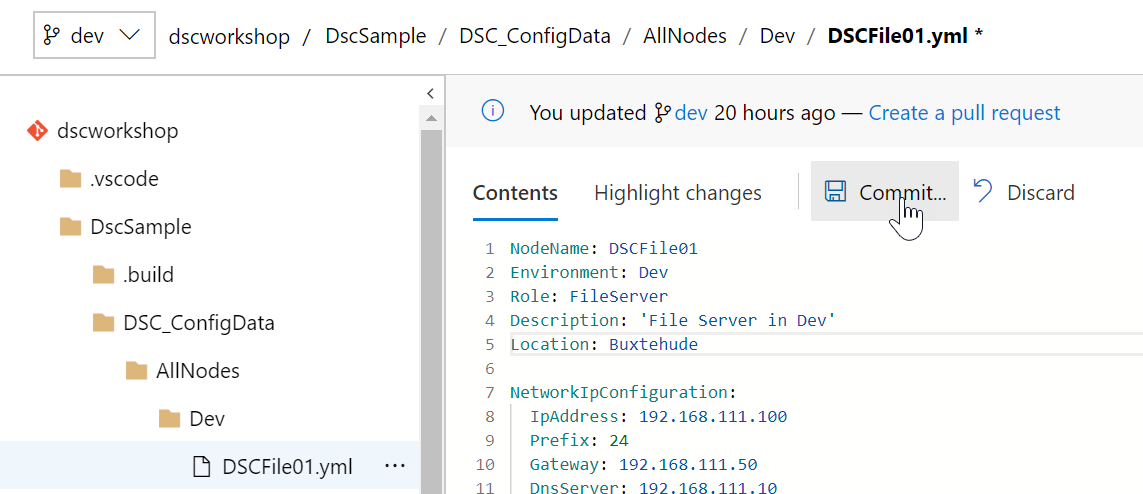
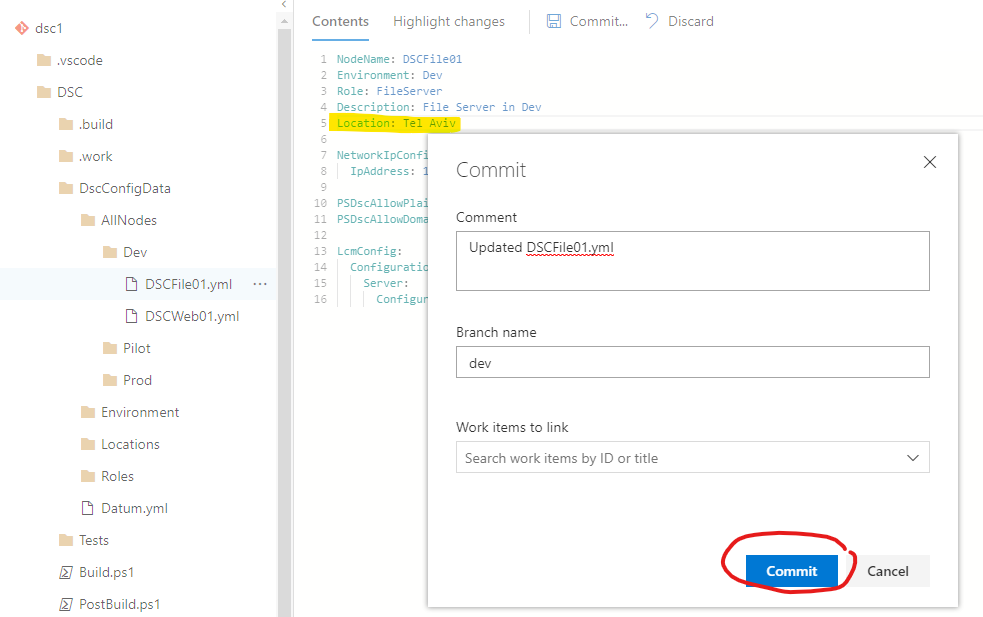
Updated Task 2 - Exercise 3

diff --git a/Exercises/Task2/Exercise3.md b/Exercises/Task2/Exercise3.md
@@ -12,24 +12,53 @@ This task assumes that you have access to dev.azure.com in order to create your 
 
 With your CI trigger set up from the previous exercise, every change that is committed to the repository invariably starts a new build process - including all test cases. Try it yourself!
 
-1. Either clone your repository locally or change a file online. For example, change to the dev branch and modify the file DSCFile01.yml:  
-    ```powershell
-    cd $home
-    git clone https://dev.azure.com/<YourAccountNameHere>/<YourProjectNameHere/dscworkshop
-    (Get-Content ./dscworkshop/DSC/DscConfigData/allnodes/dev/dscfile01.yml) -replace 'Location.*','Location: Buxtehude' |
-    Set-Content -Path ./dscworkshop/DSC/DscConfigData/allnodes/dev/dscfile01.yml
-    ```  
-    or if your prefer:  
-    ![UI file editing](./img/CommitChange.png)
-2. Stage and commit your changes locally. No build will be started yet, until you push your changes or, if using a forked repository, raise a pull request:
-    ```powershell
-    cd dscworkshop
-    git add .
-    git commit -m "DSCFile01 changed its location"
+1. There are two ways to edit a file. Please change the location of the node 'DSCFile01' using one of the following methods:
 
-    # Examine the output of git log to see your local commit in the history of all commits
-    git log
-    ```
-3. Push your committed changes by executing ```git push``` and switch back to Azure DevOps to witness the build being started. To do so, navigate to Pipelines -> Builds to see the build history.
+        ### The Azure DevOps web editor
+        
+        The quick one is just using the web editor in Azure DevOps. This is ok for a small test but this method does not scale and you can easily do mistakes.
+
+        ![UI file editing](./img/CommitChange.png)
+
+        If you have changed the location, press the 'Commit' button. By default, this change goes to the 'dev' branch.
+
+        ### Working with a local clone
+
+        If you really want to work with a source code repository, first thing is to create a local clone. You can do all you changes locally, review them and push them back to the repository.
+
+        In Visual Studio Code you can clone a repository by pressing ```F1``` and navigating to the command 'Git: Clone'. You need to provide the repository's URL and a local target folder.
+
+        You will get the URL from the Azure DevOps Repos -> Files page or you can start the clone project right from there.
+
+        ![Clone a repository](img/CloneRepository.png)
+
+        After the cloning is finished, you will be asked if 'you [would] like to open the cloned repository, or add it to the current workspace?'. Please choose 'Open'.
+
+        After you have altered the location in the 'DSCFile01.yml', save the file and see the change in the source control area:
+
+        >**Note: Please monitor the changes in the yellow marked are.**
+
+        ![Commit a local change](img/CommitLocalChange.png)
+
+        Enter a commit message and then click the 'Commit' button. You will be asked 'Would you like to automatically stage all your changes and commit them directly?', please click 'Yes'.
+
+        Now you have done a change in the local repository. This is indicated in the area at the left bottom that was marked yellow in the screenshot. You see 0 incoming and 1 outgoing change. If you click on that area, you will be asked "This action will push and pull commits to and from 'origin/dev'". Click yes, to push the changes to the Azure DevOps repo.
+
+        >**Info:** Alternatively you could have used the git command to do the same on the command line like this:
+
+        ```powershell
+        git add .
+        git commit -m "DSCFile01 changed its location"
+
+        # Examine the output of git log to see your local commit in the history of all commits
+        git log -n 1
+
+        #to see the actual change that was committed but not yet pushed
+        git show HEAD
+
+        git push
+        ```
+
+2. Switch back to Azure DevOps to witness the build being started. To do so, navigate to Pipelines -> Builds to see the build history.
 
 Please continue with [Exercise 4](Exercise4.md) when your are ready.
